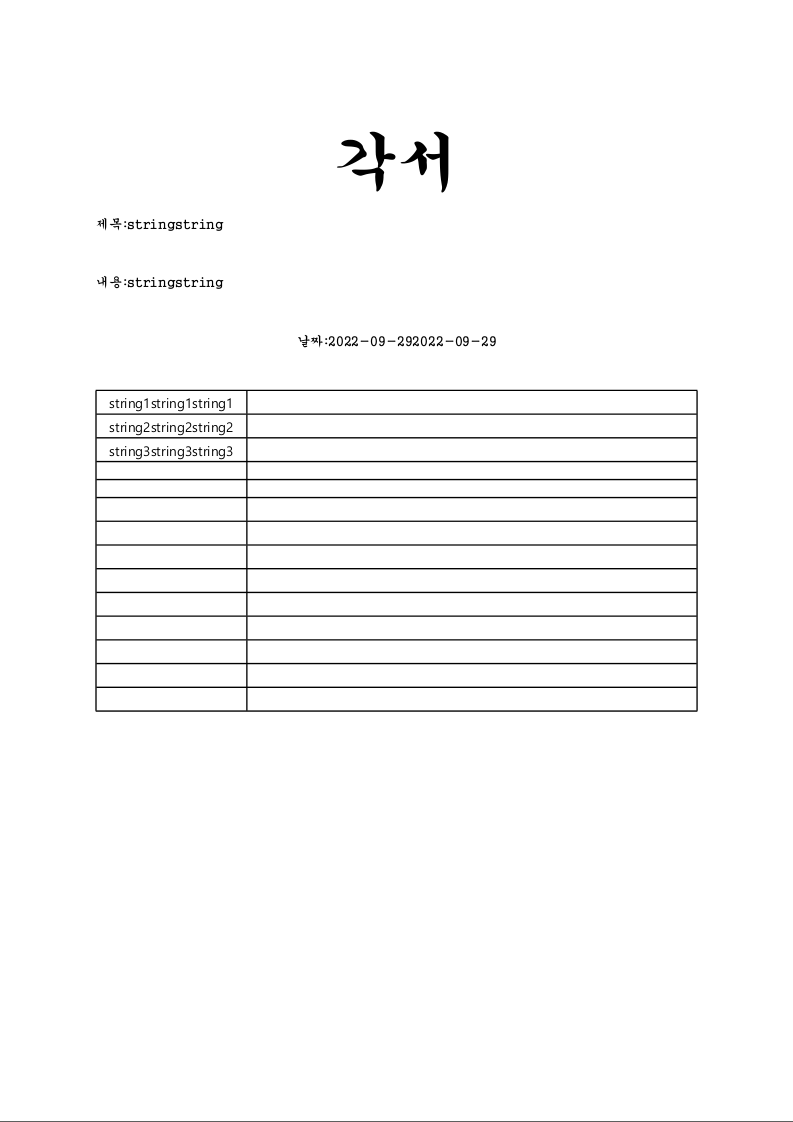
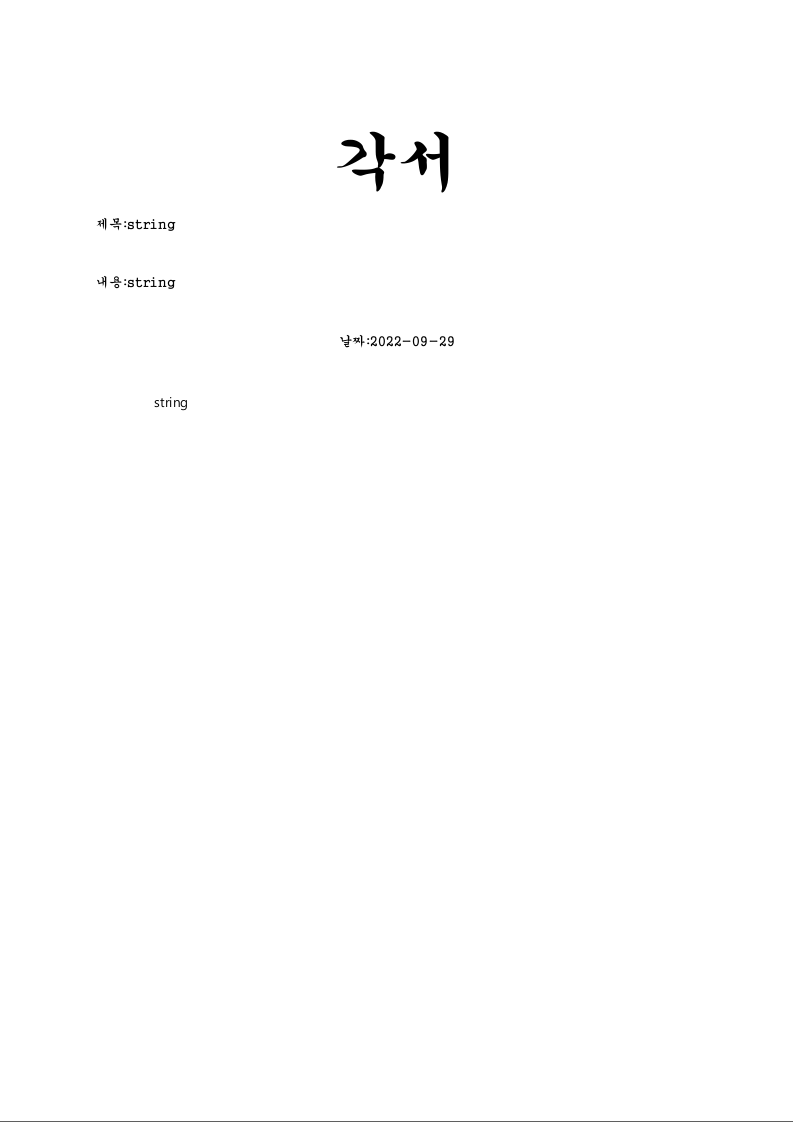
[S07P22A308-101][BE] feat: S3

diff --git a/back/sonmogaji/src/main/java/com/ssafy/sonmogaji/model/service/ApachePOIServiceImpl.java b/back/sonmogaji/src/main/java/com/ssafy/sonmogaji/model/service/ApachePOIServiceImpl.java
@@ -3,22 +3,30 @@ package com.ssafy.sonmogaji.model.service;
 import com.spire.doc.Document;
 import com.spire.doc.documents.ImageType;
 import com.ssafy.sonmogaji.model.dto.TransactionDto;
+import com.ssafy.sonmogaji.util.Base64ToImgDecoder;
+import com.ssafy.sonmogaji.util.Steganographer;
+import lombok.RequiredArgsConstructor;
+import org.apache.poi.util.Units;
 import org.apache.poi.xwpf.usermodel.*;
-import org.aspectj.apache.bcel.util.ClassPath;
 import org.springframework.stereotype.Service;
 
 import javax.imageio.ImageIO;
+import javax.xml.bind.DatatypeConverter;
 import java.awt.image.BufferedImage;
-import java.io.File;
-import java.io.FileInputStream;
-import java.io.FileOutputStream;
+import java.io.*;
 import java.util.Iterator;
 import java.util.List;
 
 @Service
+@RequiredArgsConstructor
 public class ApachePOIServiceImpl implements ApachePOIService{
 
 //    private static final String PATH = "classpath:/static/";
+
+    private final Base64ToImgDecoder base64ToImgDecoder;
+    private final Steganographer steganographer;
+
+
 
     @Override
     public void createPreview(TransactionDto transactionDto) throws Exception {
@@ -30,6 +38,7 @@ public class ApachePOIServiceImpl implements ApachePOIService{
 
             XWPFDocument doc = new XWPFDocument(new FileInputStream(file));
 
+            // 본문 입력하기
             for(XWPFParagraph p : doc.getParagraphs()) {
                 List<XWPFRun> runs = p.getRuns();
                 if(runs != null) {
@@ -51,7 +60,6 @@ public class ApachePOIServiceImpl implements ApachePOIService{
                 }
             }
 
-
             XWPFTable table = null;
             // 테이블 요소 구하기
             Iterator<IBodyElement> docElementsIterator = doc.getBodyElementsIterator();
@@ -65,23 +73,35 @@ public class ApachePOIServiceImpl implements ApachePOIService{
                 }
             }
 
-            String txTitle = transactionDto.getTxTitle();
-            String txContent = transactionDto.getTxContent();
-
-
-//            XWPFParagraph paragraph = doc.createParagraph();
+            for(int i = 0; i<transactionDto.getSignees().size() -2 ; i++) {
+                table.createRow();
+            }
 
             for(int i = 0; i < transactionDto.getSignees().size(); i++ ) {
                 XWPFTableRow row = table.getRow(i);
-                row.getCell(0).setText(transactionDto.getSignees().get(i));
-                table.createRow();
-//                row.getCell(1).setParagraph(paragraph.createRun().addPicture());
+                row.getCell(0).setText(transactionDto.getSignees().get(i).getMemberAddress());
+
+                // 사인 이미지 넣기
+                String data = transactionDto.getSignees().get(i).getSignBase64().split(",")[1];
+                byte[] imgBytes = DatatypeConverter.parseBase64Binary(data);
+                BufferedImage bufImg = ImageIO.read(new ByteArrayInputStream(imgBytes));
+
+                InputStream is = new ByteArrayInputStream(imgBytes);
+
+
+
+                int imgType = XWPFDocument.PICTURE_TYPE_PNG;
+                String imgFileName = transactionDto.getSignees().get(i).getSigneeName();
+                int width = 200;
+                int height = 100;
+
+                XWPFParagraph paragraph = doc.createParagraph();
+                XWPFRun run = paragraph.createRun();
+                run.addPicture(is, imgType, imgFileName,Units.toEMU(width), Units.toEMU(height));
+
+                row.getCell(1).setParagraph(paragraph);
 
             }
-
-
-//            row.getCell(1).setParagraph(paragraph.createRun().addPicture());
-
 
             fos = new FileOutputStream(new File(sample));
             doc.write(fos);
@@ -92,6 +112,7 @@ public class ApachePOIServiceImpl implements ApachePOIService{
             e.printStackTrace();
         }
 
+        // 각서 이미지로 변환하기
         File file = new File(sample);
 
         Document document = new Document();
@@ -104,7 +125,10 @@ public class ApachePOIServiceImpl implements ApachePOIService{
     }
 
     @Override
-    public File createImg(File preview) {
+    public File createImg(File preview, String transactionAddress) {
+
+        steganographer.encode(preview, transactionAddress);
+
         return null;
     }
 }

diff --git a/back/sonmogaji/src/main/java/com/ssafy/sonmogaji/model/service/TransactionServiceImpl.java b/back/sonmogaji/src/main/java/com/ssafy/sonmogaji/model/service/TransactionServiceImpl.java
@@ -3,13 +3,21 @@ package com.ssafy.sonmogaji.model.service;
 import java.io.File;
 import java.io.FileOutputStream;
 import java.io.IOException;
+import java.io.InputStream;
 import java.util.ArrayList;
 import java.util.List;
 import java.util.UUID;
 
 import javax.transaction.Transactional;
 
+import com.amazonaws.services.s3.AmazonS3;
+import com.amazonaws.services.s3.model.CannedAccessControlList;
+import com.amazonaws.services.s3.model.ObjectMetadata;
+import com.amazonaws.services.s3.model.PutObjectRequest;
+import com.ssafy.sonmogaji.model.dto.SigneeDto;
+import org.springframework.beans.factory.annotation.Value;
 import org.springframework.data.domain.Pageable;
+import org.springframework.http.HttpStatus;
 import org.springframework.stereotype.Service;
 import org.springframework.web.multipart.MultipartFile;
 
@@ -23,6 +31,7 @@ import com.ssafy.sonmogaji.model.repository.TransactionRepository;
 import com.ssafy.sonmogaji.util.Steganographer;
 
 import lombok.RequiredArgsConstructor;
+import org.springframework.web.server.ResponseStatusException;
 
 @Service
 @RequiredArgsConstructor
@@ -31,12 +40,16 @@ public class TransactionServiceImpl implements TransactionService {
 	
 	private String uploadPath = File.separator + "app" + File.separator + "Feed";
 	private String frontPath = File.separator + "sonmogaji" + File.separator + "Feed";
+
+	@Value("${cloud.aws.s3.bucket}")
+	private String bucket;
 			
 	
 	private final TransactionRepository transactionRepository;
 	private final SigneeRepository signeeRepository;
 	private final MemberRepository memberRepository;
 	private final Steganographer steganographer;
+	private final AmazonS3 amazonS3;
 	
 	// 각서 인증하기
 	@Override
@@ -110,6 +123,35 @@ public class TransactionServiceImpl implements TransactionService {
 		return null;
 	}
 
+	// 각서 이미지 저장
+	public String uploadFile(MultipartFile file) {
+		String fileName = createFileName(file.getOriginalFilename());
+		ObjectMetadata objectMetadata = new ObjectMetadata();
+		objectMetadata.setContentLength(file.getSize());
+		objectMetadata.setContentType(file.getContentType());
+
+		try(InputStream inputStream = file.getInputStream()) {
+			amazonS3.putObject(new PutObjectRequest(bucket, fileName, inputStream, objectMetadata).withCannedAcl(CannedAccessControlList.PublicRead));
+		} catch (IOException e) {
+			throw new ResponseStatusException(HttpStatus.INTERNAL_SERVER_ERROR, "파일 업로드에 실패했습니다.");
+		}
+
+		return fileName;
+	}
+
+	private String createFileName(String fileName) {
+		return UUID.randomUUID().toString().concat(getFileExtension(fileName));
+	}
+
+	private String getFileExtension(String fileName) {
+		try{
+			return  fileName.substring(fileName.lastIndexOf("."));
+		} catch (StringIndexOutOfBoundsException e) {
+			throw new ResponseStatusException(HttpStatus.BAD_REQUEST, "잘못된 형식의 파일입니다");
+		}
+	}
+
+
 	// 각서 정보 저장
 	@Override
 	public void writeTransaction(TransactionDto transactionDto, MultipartFile file) {
@@ -132,10 +174,10 @@ public class TransactionServiceImpl implements TransactionService {
 		transactionRepository.save(transaction);
 		
 		// 각서 서명인들 저장
-		List<String> signeeDtos = transactionDto.getSignees(); 
-		for(String signeeDto : signeeDtos) {
-			Member member = memberRepository.findByMemberAddress(signeeDto).orElseGet(Member :: new);
-			Signee signee = Signee.builder().member(member).transaction(transaction).build();
+		List<SigneeDto> signeeDtos = transactionDto.getSignees();
+		for(SigneeDto signeeDto : signeeDtos) {
+			Member member = memberRepository.findByMemberAddress(signeeDto.getMemberAddress()).orElseGet(Member :: new);
+			Signee signee = Signee.builder().signeeID(0L).member(member).transaction(transaction).build();
 			signeeRepository.save(signee);
 		}
 		

diff --git a/back/sonmogaji/src/main/java/com/ssafy/sonmogaji/config/S3Config.java b/back/sonmogaji/src/main/java/com/ssafy/sonmogaji/config/S3Config.java
@@ -1,0 +1,31 @@
+package com.ssafy.sonmogaji.config;
+
+import com.amazonaws.auth.AWSStaticCredentialsProvider;
+import com.amazonaws.auth.BasicAWSCredentials;
+import com.amazonaws.services.s3.AmazonS3;
+import com.amazonaws.services.s3.AmazonS3ClientBuilder;
+import org.springframework.beans.factory.annotation.Value;
+import org.springframework.context.annotation.Bean;
+import org.springframework.context.annotation.Configuration;
+
+@Configuration
+public class S3Config {
+    @Value("${cloud.aws.credentials.access-key}")
+    private String accessKey;
+
+    @Value("${cloud.aws.credentials.secret-key}")
+    private String secretKey;
+
+    @Value("${cloud.aws.region.static}")
+    private String region;
+
+    @Bean
+    public AmazonS3 amazonS3() {
+        BasicAWSCredentials awsCreds = new BasicAWSCredentials(accessKey, secretKey);
+        return AmazonS3ClientBuilder
+                .standard()
+                .withCredentials(new AWSStaticCredentialsProvider(awsCreds))
+                .withRegion(region)
+                .build();
+    }
+}

diff --git a/back/sonmogaji/src/main/java/com/ssafy/sonmogaji/util/Base64ToImgDecoder.java b/back/sonmogaji/src/main/java/com/ssafy/sonmogaji/util/Base64ToImgDecoder.java
@@ -1,0 +1,41 @@
+package com.ssafy.sonmogaji.util;
+
+import lombok.AllArgsConstructor;
+import lombok.NoArgsConstructor;
+import org.springframework.stereotype.Component;
+
+import javax.imageio.ImageIO;
+import javax.xml.bind.DatatypeConverter;
+import java.awt.image.BufferedImage;
+import java.io.ByteArrayInputStream;
+import java.io.File;
+import java.io.IOException;
+
+@Component
+public class Base64ToImgDecoder {
+    public boolean decoder(String base64, String target){
+
+        String data = base64.split(",")[1];
+
+        byte[] imageBytes = DatatypeConverter.parseBase64Binary(data);
+
+        try {
+
+            BufferedImage bufImg = ImageIO.read(new ByteArrayInputStream(imageBytes));
+
+            ImageIO.createImageInputStream(bufImg);
+
+//            ImageIO.write(bufImg, "PNG", new File(target));
+
+        } catch (IOException e) {
+            // TODO Auto-generated catch block
+            e.printStackTrace();
+
+            return false;
+        }
+
+        return true;
+
+    }
+
+}

diff --git a/back/sonmogaji/src/main/java/com/ssafy/sonmogaji/model/entity/Signee.java b/back/sonmogaji/src/main/java/com/ssafy/sonmogaji/model/entity/Signee.java
@@ -1,12 +1,6 @@
 package com.ssafy.sonmogaji.model.entity;
 
-import javax.persistence.Column;
-import javax.persistence.Entity;
-import javax.persistence.FetchType;
-import javax.persistence.GeneratedValue;
-import javax.persistence.Id;
-import javax.persistence.JoinColumn;
-import javax.persistence.ManyToOne;
+import javax.persistence.*;
 
 import lombok.AllArgsConstructor;
 import lombok.Builder;
@@ -29,12 +23,12 @@ public class Signee {
 	private Long signeeID;
 
 	// 사인한 멤버
-	@ManyToOne(fetch = FetchType.LAZY)
+	@ManyToOne(fetch = FetchType.LAZY, cascade = CascadeType.PERSIST)
 	@JoinColumn(name = "member_address")
 	private Member member;
 	
 	// 사인한 각서
-	@ManyToOne(fetch = FetchType.LAZY)
+	@ManyToOne(fetch = FetchType.LAZY, cascade = CascadeType.PERSIST)
 	@JoinColumn(name = "tx_address")
 	private Transaction transaction;
 	

diff --git a/back/sonmogaji/src/main/java/com/ssafy/sonmogaji/util/Steganographer.java b/back/sonmogaji/src/main/java/com/ssafy/sonmogaji/util/Steganographer.java
@@ -49,7 +49,7 @@ public class Steganographer {
 
 	// Encode
 
-	public static void encode(File file, String textPath) {
+	public void encode(File file, String textPath) {
 		BufferedImage originalImage = getImageFromFile(file);
 		BufferedImage imageInUserSpace = getImageInUserSpace(originalImage);
 		String text = getTextFromTextFile(textPath);

diff --git a/back/sonmogaji/src/main/java/com/ssafy/sonmogaji/model/dto/SigneeDto.java b/back/sonmogaji/src/main/java/com/ssafy/sonmogaji/model/dto/SigneeDto.java
@@ -1,5 +1,6 @@
 package com.ssafy.sonmogaji.model.dto;
 
+import com.ssafy.sonmogaji.model.entity.Signee;
 import lombok.Data;
 
 @Data
@@ -7,5 +8,7 @@ public class SigneeDto {
 	private Long signeeId;
 	private String memberAddress;
 	private String txAddress;
+	private String signeeName;
+	private String signBase64;
 
 }

diff --git a/back/sonmogaji/src/main/java/com/ssafy/sonmogaji/controller/TransactionController.java b/back/sonmogaji/src/main/java/com/ssafy/sonmogaji/controller/TransactionController.java
@@ -71,7 +71,7 @@ public class TransactionController {
             throws Exception {
 
         try {
-
+            transactionService.uploadFile(file);
             transactionService.writeTransaction(transactionDto, file);
 
             return new ResponseEntity<String>("tx is created successfully", HttpStatus.OK);

diff --git a/back/sonmogaji/src/main/java/com/ssafy/sonmogaji/model/service/ApachePOIService.java b/back/sonmogaji/src/main/java/com/ssafy/sonmogaji/model/service/ApachePOIService.java
@@ -9,7 +9,7 @@ public interface ApachePOIService {
     public void createPreview(TransactionDto transactionDto) throws Exception;
 
     // 각서 이미지 만들기
-    public File createImg(File preview);
+    public File createImg(File preview, String transactionAddress);
 
 
 }

diff --git a/back/sonmogaji/src/main/java/com/ssafy/sonmogaji/model/service/TransactionService.java b/back/sonmogaji/src/main/java/com/ssafy/sonmogaji/model/service/TransactionService.java
@@ -27,6 +27,9 @@ public interface TransactionService {
 	
 	// 각서 작성
 	public void writeTransaction(TransactionDto transactionDto, MultipartFile file);
+
+	//각서 이미지 저장
+	public String uploadFile(MultipartFile file);
 	
 	
 

diff --git a/back/sonmogaji/src/main/java/com/ssafy/sonmogaji/model/dto/TransactionDto.java b/back/sonmogaji/src/main/java/com/ssafy/sonmogaji/model/dto/TransactionDto.java
@@ -50,7 +50,7 @@ public class TransactionDto {
 	private String txNftUrl;
 	
 	// 각서 서명자들
-	private List<String> signees;
+	private List<SigneeDto> signees;
 
 	public Transaction toTransaction() {
 		return Transaction.builder()
